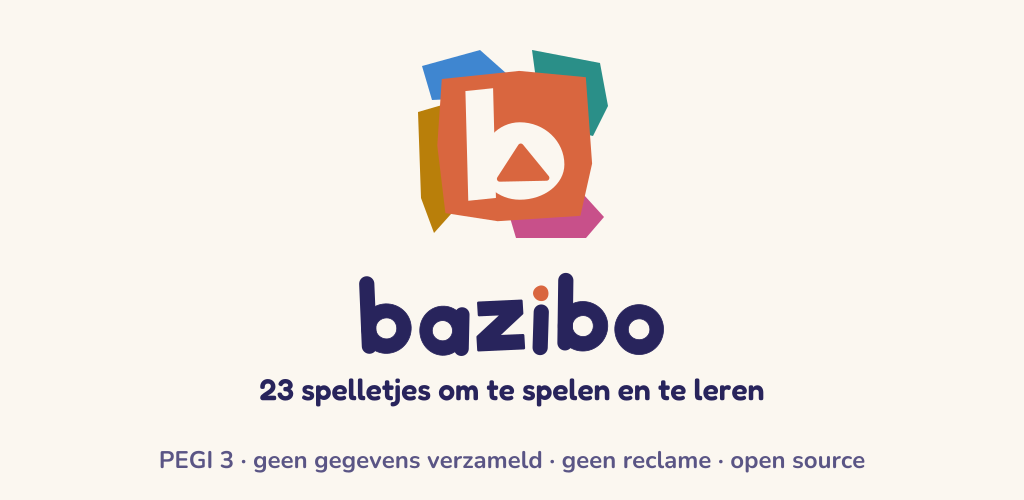
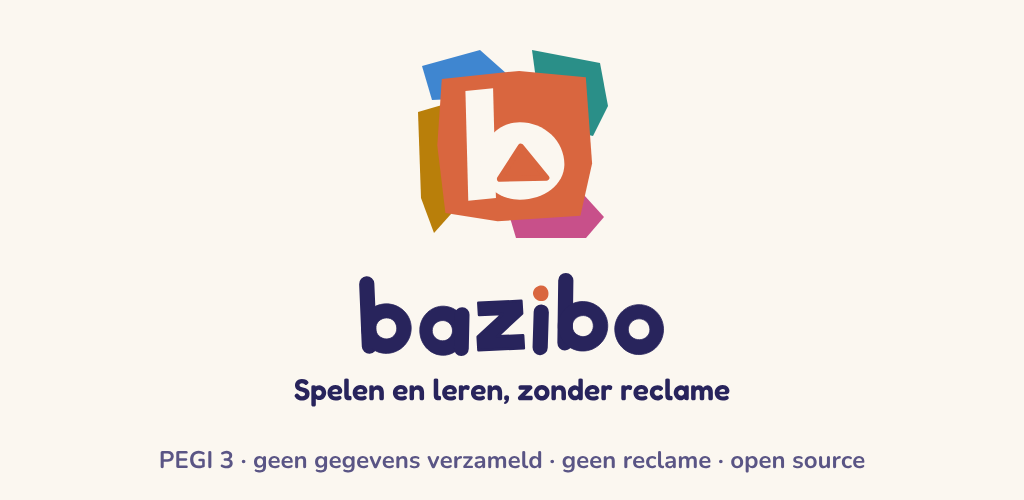
Feature graphic: the Dutch line without a game count; share image made by the tool
"23 spelletjes om te spelen en te leren" was wrong (24 games) and would go stale with every
game. The Dutch line is now "Spelen en leren, zonder reclame": the Dutch screenshot frame's own
Fredoka outlines, at the English line's size and baseline, centred, so NL and EN say the same
thing and neither carries a count. Re-rendered with tools/store_shots.py --feature, which now
also writes web/img/share.png (the Dutch feature graphic on 1200x630); --share makes only that.
Documented in AGENTS.md. Item 1 of #103.

Changed region(s): [[0.25, 0.75, 0.75, 0.81]]

diff --git a/web/index.html b/web/index.html
@@ -23,7 +23,7 @@
   <meta property="og:image" content="https://bazibo.nl/img/share.png">
   <meta property="og:image:width" content="1200">
   <meta property="og:image:height" content="630">
-  <meta property="og:image:alt" content="Het logo van Bazibo: spelletjes om te spelen en te leren. PEGI 3, geen gegevens verzameld, geen reclame, open source.">
+  <meta property="og:image:alt" content="Het logo van Bazibo met de regel: spelen en leren, zonder reclame. PEGI 3, geen gegevens verzameld, geen reclame, open source.">
   <meta property="og:locale" content="nl_NL">
   <meta property="og:locale:alternate" content="en_GB">
   <meta name="twitter:card" content="summary_large_image">

diff --git a/web/sw.js b/web/sw.js
@@ -1,7 +1,7 @@
 // Offline play: precache the whole (small) app with all its games, then serve cache-first.
 // VERSION is a hash of every file in ASSETS, written by `npm run stamp` (tools/stamp-sw.mjs).
 // `npm test` fails when it does not match, so a release cannot leave players on an old build.
-const VERSION = 'bubbels-07123629c1';
+const VERSION = 'bubbels-38641b079f';
 const ASSETS = [
   './',
   'index.html',

diff --git a/tools/store_shots.py b/tools/store_shots.py
@@ -2,8 +2,12 @@
 Chromium. Writes store/screenshots/<lang>/<device>/*.png (Dutch and English) and
 store/feature-graphic{,-en}-1024x500.png.
 
-Run: uv run --with playwright --with pillow python tools/store_shots.py [--feature]
-(--feature: only the two feature graphics, from design/brand/store/ through tools/feature.html)
+Run: uv run --with playwright --with pillow python tools/store_shots.py [--feature | --share]
+(--feature: only the two feature graphics, from design/brand/store/ through tools/feature.html,
+and then the share image; --share: only web/img/share.png, from the Dutch feature graphic as it is)
+
+The share image (web/img/share.png, the Open Graph picture of bazibo.nl) is the Dutch feature
+graphic centred on 1200x630 on its own paper colour, so a link preview never drifts from the store.
 
 The screenshots are flattened to RGB (the App Store refuses images with an alpha channel).
 """
@@ -68,6 +72,21 @@ def flatten(path):
     img = Image.open(path)
     if img.mode != "RGB":
         img.convert("RGB").save(path, optimize=True)
+
+
+SHARE = ROOT / "web" / "img" / "share.png"
+
+
+def make_share(src=OUT / "feature-graphic-1024x500.png", dst=SHARE):
+    """The link-preview image: the feature graphic centred on 1200x630 (1.91:1, what Open Graph
+    previews crop to), padded with the graphic's own background colour."""
+    from PIL import Image
+
+    img = Image.open(src).convert("RGB")
+    out = Image.new("RGB", (1200, 630), img.getpixel((2, 2)))
+    out.paste(img, ((1200 - img.width) // 2, (630 - img.height) // 2))
+    out.save(dst, optimize=True)
+    print("wrote", dst.relative_to(ROOT), "(run npm run stamp)")
 
 
 def shoot(browser, base, name, viewport, dpr, lang):
@@ -243,6 +262,9 @@ def shoot(browser, base, name, viewport, dpr, lang):
 
 
 def main():
+    if "--share" in sys.argv:
+        make_share()
+        return
     port = free_port()
     httpd = http.server.ThreadingHTTPServer(("127.0.0.1", port), functools.partial(Quiet, directory=str(ROOT)))
     threading.Thread(target=httpd.serve_forever, daemon=True).start()
@@ -263,6 +285,7 @@ def main():
                 flatten(fg)
                 print("wrote", fg.relative_to(ROOT))
             browser.close()
+        make_share()
     finally:
         httpd.shutdown()
 

diff --git a/AGENTS.md b/AGENTS.md
@@ -61,8 +61,11 @@ art in `design/brand/` first, then `logo.js`. Every icon and launch screen comes
 (favicon, apple-touch-icon, web and maskable icons, Android legacy, round, adaptive foreground and
 monochrome on an ink background, iOS AppIcon, launch screens on paper, `store/play-icon-512.png`);
 the feature graphics are the brand's own SVGs (`design/brand/store/feature-graphic{,-en}.svg`, the
-English one assembled from the English screenshot frame's outlines) through `tools/feature.html`
-(`tools/store_shots.py --feature`). Each section is a CSS grid with `auto-fill`/`minmax`: 3 tiles a row on most
+English one assembled from the English screenshot frame's outlines, the Dutch line likewise from the
+Dutch frame: "Spelen en leren, zonder reclame", never a game count that goes stale) through
+`tools/feature.html` (`tools/store_shots.py --feature`), which also writes `web/img/share.png`, the
+link-preview image of bazibo.nl (the Dutch feature graphic centred on 1200x630); `--share` remakes
+only that one. After either, `npm run stamp`; never edit `share.png` by hand. Each section is a CSS grid with `auto-fill`/`minmax`: 3 tiles a row on most
 phones, 2 at 320 px, the sections side by side on wider screens; a section wider than the screen wraps its tiles (`.home-inner` keeps `max-width: 100%`), so there is never sideways scroll from 320 to 1400 px.
 
 **Hard rules**
@@ -113,7 +116,7 @@ phones, 2 at 320 px, the sections side by side on wider screens; a section wider
 **Search engines** (`web/js/seo.js`, `tests/seo.test.js`): `web/robots.txt`, `web/sitemap.xml`, and in
 the heads of `index.html` and the six parents' pages a title, a description, the canonical address,
 hreflang (Dutch, English, x-default) and on the home page and Plannen / Roadmap Open Graph with
-`web/img/share.png` (the brand's feature graphic on 1200x630). The home page also carries one
+`web/img/share.png` (the Dutch feature graphic on 1200x630, made by `tools/store_shots.py`). The home page also carries one
 schema.org `MobileApplication` block (`application/ld+json`: a data block, never run, so the CSP
 needs no change). These name `https://bazibo.nl/` absolutely because crawlers need that; the page
 never loads any of them, and that is the only exception to "relative URLs only". The home screen

diff --git a/docs/marketing/aso-proposal.md b/docs/marketing/aso-proposal.md
@@ -72,7 +72,7 @@ EN: "Privacy and roadmap: https://bazibo.nl" and "Open source (MIT): https://git
 Result: **NL 3987, EN 3978** characters.
 
 The game count (24) is in the first line because numbers draw the eye; it must change with every
-new game (the feature graphic in `design/brand/store/` says 23 today).
+new game. The feature graphics carry no count, so they never go stale.
 
 ## Reviews
 
